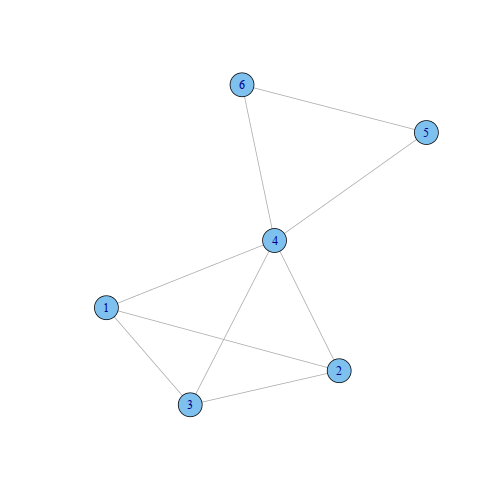
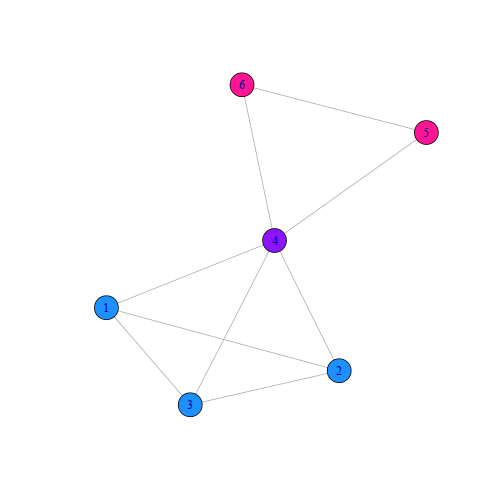
Added k-clique example from literature

diff --git a/07-mejn-measures-and-metrics-ii/README.md b/07-mejn-measures-and-metrics-ii/README.md
@@ -30,21 +30,30 @@ group detection (clustering, etc.) are discussed in later sections in the book.
 
 Example:
 
-<div class="chunk" id="clique"><div class="rcode"><div class="source"><pre class="knitr r"># load igraph and set random seed
+
+```r
+# load igraph and set random seed
 library(igraph)
 set.seed(1)
 
 # adj matrix with two cliques
 clique = matrix(0, 6, 6)
-clique[0:4,0:4] = 1
-clique[3,4] = clique[4,5] = clique[4,5] = clique[4,6] = clique[5,6] = 1
+clique[0:4, 0:4] = 1
+clique[3, 4] = clique[4, 5] = clique[4, 5] = clique[4, 6] = clique[5, 6] = 1
 diag(clique) = 0
 
+# convert to graph
+g = graph.adjacency(clique, mode = "undirected")
+
+# color cliques
+V(g)$color = ifelse(V(g) %in% c(1, 2, 3), "#1E90FF", "#FF1493")
+V(g)[4]$color = "#8C14FF"
+
 # plot cliques
-plot(graph.adjacency(clique, mode='undirected'))
-</pre></div>
-<div class="rimage default"><img src="figure/clique.png" title="plot of chunk clique" alt="plot of chunk clique" class="plot" /></div>
-</div></div>
+plot(g)
+```
+
+![plot of chunk clique](figure/clique.png) 
 
 
 - In the above figure, nodes 1-4 and 4-6 each form separate cliques
@@ -108,7 +117,56 @@ plot(graph.adjacency(clique, mode='undirected'))
 - Social network lit. sometimes uses slightly modified definition to exclude
   non-contiguous sets of *k*-components.
 
+7.9 Transitivity
+----------------
 
+## Overview
+
+Transitive relations (math):
+- if A ○ B, and B ○ C, then A ○ C
+- e.g. equality operator
+
+In some cases, various relations on the vertices of a network may be
+transitive.
+- Ex. "connected by an edge"
+- Networks showing this property are themselves said to be *transitive*
+- "Perfect transitivity" ⇒ Each network component is fully connected
+- "Partial transitivity" ⇒ If AB and BC, AC is not guaranteed to have an edge,
+  but is more likely. (Here, "AB" means that A and B are vertices in the
+  network and there is an edge between them.)
+
+Quantifying the level of transitivity:
+
+- if *uv* and *vw*, then the two-edge path *uvw* exists.
+- if *uw* also exists, then we say the path is *closed* -- it forms a loop of
+  length 3 (a triangle) in the network.
+- SNA -- *u*, *v*, and *w* form a *closed triad*
+
+## Clustering Coefficient
+
+> We define the clustering coefficient to be the fraction of paths of length
+> two in the network that are closed.
+
+$$C = \frac{\text{(number of closed paths of length two)}}{\text{(number of
+paths of length two)}}$$
+
+![clustering
+coefficient](https://raw.githubusercontent.com/khughitt/notes/master/courses/Coursera-Network_Analysis_in_Systems_Biology/images/clustering_coefficent_ravasz.jpg)
+(Ravasz et al. 2002)
+
+- *C*=1 perfect transivity - all components are cliques
+- *C*=0 no closed triads in the network (e.g. a tree)
+- Provides a measure of how connected the neighbors of nodes are to one another
+  on average.
+
+## 7.9.1 Local clustering and redundancy
+
+We can extend the above concept to a measure to single nodes:
+
+$$C = \frac{\text{(number of pairs of neighbors of $i$ that are connected)}}{\text{(number of
+pairs of neighbors of $i$)}}$$
+
+- A measure of how the neighbors of a node are connected to each other.
 
 
 References
